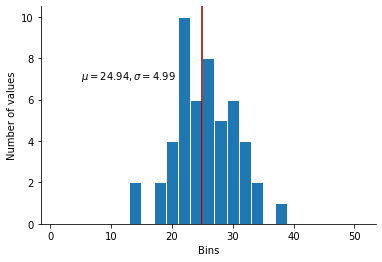
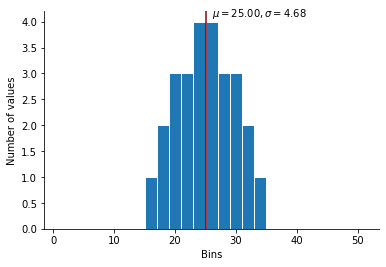
Updated blog posts

Changed region(s): [[0.0, 0.0305, 0.9791, 0.916], [0.5183, 0.916, 0.5759, 0.9771]]

diff --git a/assets/scss/custom.scss b/assets/scss/custom.scss
@@ -1,0 +1,4 @@
+footer{
+  margin: 0px;
+  padding: 1rem 0;
+}

diff --git a/content/post/generate-distributions/index.md b/content/post/generate-distributions/index.md
@@ -91,7 +91,9 @@ display(fig, metadata=dict(filename="Fig1"))
 ```
 
 
+    
 ![png](files/Fig1.png)
+    
 
 
 The mean is lower than what we'd like, the standard deviation is too high, and the distribution would not look normal at all when reported in a distribution builder.
@@ -124,10 +126,14 @@ while (
     m = numbers.mean()
     sd = numbers.std()
     skew = stats.skew(numbers)
-print("After {} iterations, we have a satisfying distribution".format(i))
+HTML("After {} iterations, we have a satisfying distribution".format(i))
 ```
 
-    After 6902 iterations, we have a satisfying distribution
+
+
+
+After 6902 iterations, we have a satisfying distribution
+
 
 
 That took a few seconds. Let's visualize it...
@@ -150,7 +156,9 @@ display(fig, metadata=dict(filename="Fig2"))
 ```
 
 
+    
 ![png](files/Fig2.png)
+    
 
 
 The distribution now has the mean, variance and skew that we want... But it still not perfectly normal. In particular, the mode does not correspond to the mean... Do we really want to give reviewer B something to nitpick about?
@@ -199,14 +207,15 @@ def bin_dist(dist, buckets, n):
 Now if we apply this method:
 
 ```python
+binned_numbers = bin_dist(stats.norm(MU, SIGMA), np.arange(0, 50, 2), 25)
 fig, ax = plt.subplots(1)
-ax.hist(round_numbers, bins=BINS, ec="white", align="mid")
-ax.axvline(np.mean(round_numbers), color="darkred")
+ax.hist(binned_numbers, bins=BINS, ec="white", align="mid")
+ax.axvline(np.mean(binned_numbers), color="darkred")
 ax.annotate(
     r"$\mu = {:.2f}, \sigma = {:.2f}$".format(
-        round_numbers.mean(), round_numbers.std()
+        binned_numbers.mean(), binned_numbers.std()
     ),
-    (5, 7),
+    (26, 4.1),
 )
 ax.set_ylabel("Number of values")
 ax.set_xlabel("Bins")
@@ -216,7 +225,9 @@ display(fig, metadata=dict(filename="Fig3"))
 ```
 
 
+    
 ![png](files/Fig3.png)
+    
 
 
 This is exactly what we want ! A normal-like distribution of integers.
@@ -261,9 +272,7 @@ for i, ax in enumerate(axes):
 
 for a, t in zip(
     axes,
-    [r"$\mathcal{N}(25, 9)$",
-     r"$\chi(1)$ (scaled)",
-     r"$\beta(0.5, 0.5)$ (scaled)"],
+    [r"$\mathcal{N}(25, 9)$", r"$\chi(1)$ (scaled)", r"$\beta(0.5, 0.5)$ (scaled)"],
 ):
     a[0].set_ylabel("{}".format(t), size=8)
 
@@ -275,15 +284,10 @@ plt.close()
 display(fig, metadata=dict(filename="Fig4"))
 ```
 
-```python
-A few rules to finish:
-* Don't use too few buckets. The larger your buckets are, the less faithful the representation of the distribution will be.
-* Don't present too few observations. You also need a good number of them to faithfully represent the distribution.
-* Make sure that your buckets cover the "full" distribution: your distribution should have support on all buckets, and the buckets should cover the majority of the support of the distribution.
-```
 
-
+    
 ![png](files/Fig4.png)
+    
 
 
 A few rules to finish:

diff --git a/content/post/generate-distributions/header.md b/content/post/generate-distributions/header.md
@@ -1,0 +1,32 @@
+---
+# Documentation: https://sourcethemes.com/academic/docs/managing-content/
+
+title: "Generate Stimuli for Numerical Cognition Experiments"
+subtitle: ""
+summary: "You want to test how well people can learn a normal distribution. How can you make sure that the discrete
+number of values that you will show to participants will look 'normal'? This blog post gives you a simple and foolproof
+way of generating values for your experiments."
+authors: [Quentin André]
+tags: [Numerical Cognition, Python, Experiment, Tutorial]
+categories: []
+date: 2018-03-30
+lastmod: 2018-03-30
+featured: false
+draft: false
+toc: true
+
+# Featured image
+# To use, add an image named `featured.jpg/png` to your page's folder.
+# Focal points: Smart, Center, TopLeft, Top, TopRight, Left, Right, BottomLeft, Bottom, BottomRight.
+image:
+  caption: ""
+  focal_point: ""
+  preview_only: false
+
+# Projects (optional).
+#   Associate this post with one or more of your projects.
+#   Simply enter your project's folder or file name without extension.
+#   E.g. `projects = ["internal-project"]` references `content/project/deep-learning/index.md`.
+#   Otherwise, set `projects = []`.
+projects: []
+---
